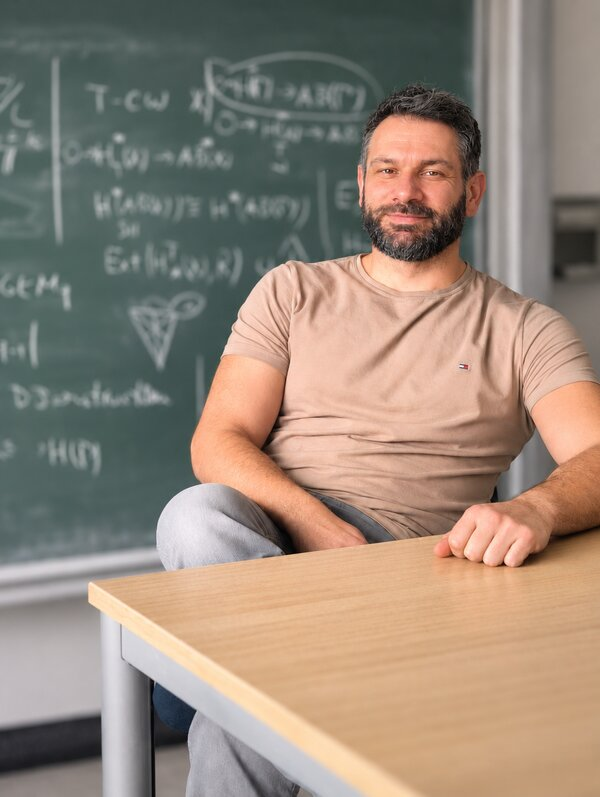
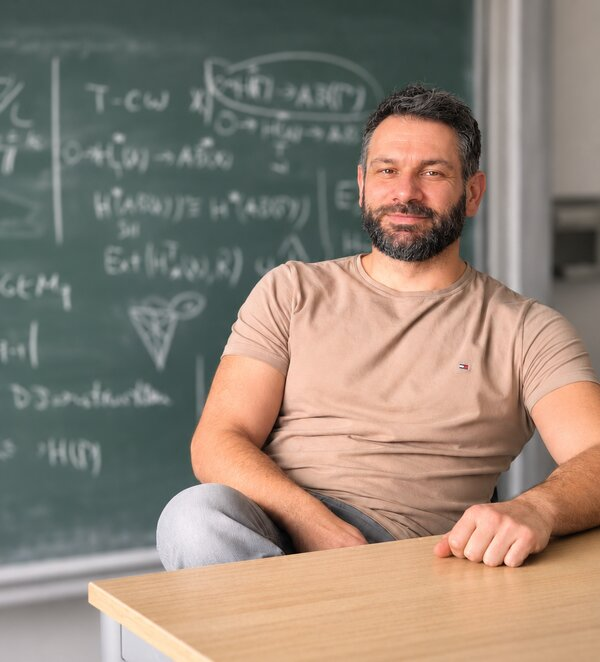
Portraitfoto unten beschnitten

diff --git a/index.html b/index.html
@@ -97,7 +97,7 @@
 
     <aside class="sidebar">
       <a href="meme.html" title="Click me">
-        <img class="portrait" src="img/portrait.jpg" width="600" height="797" alt="Panagiotis Konstantis in front of a blackboard">
+        <img class="portrait" src="img/portrait.jpg" width="600" height="662" alt="Panagiotis Konstantis in front of a blackboard">
       </a>
       <section>
         <h2>Contact</h2>
